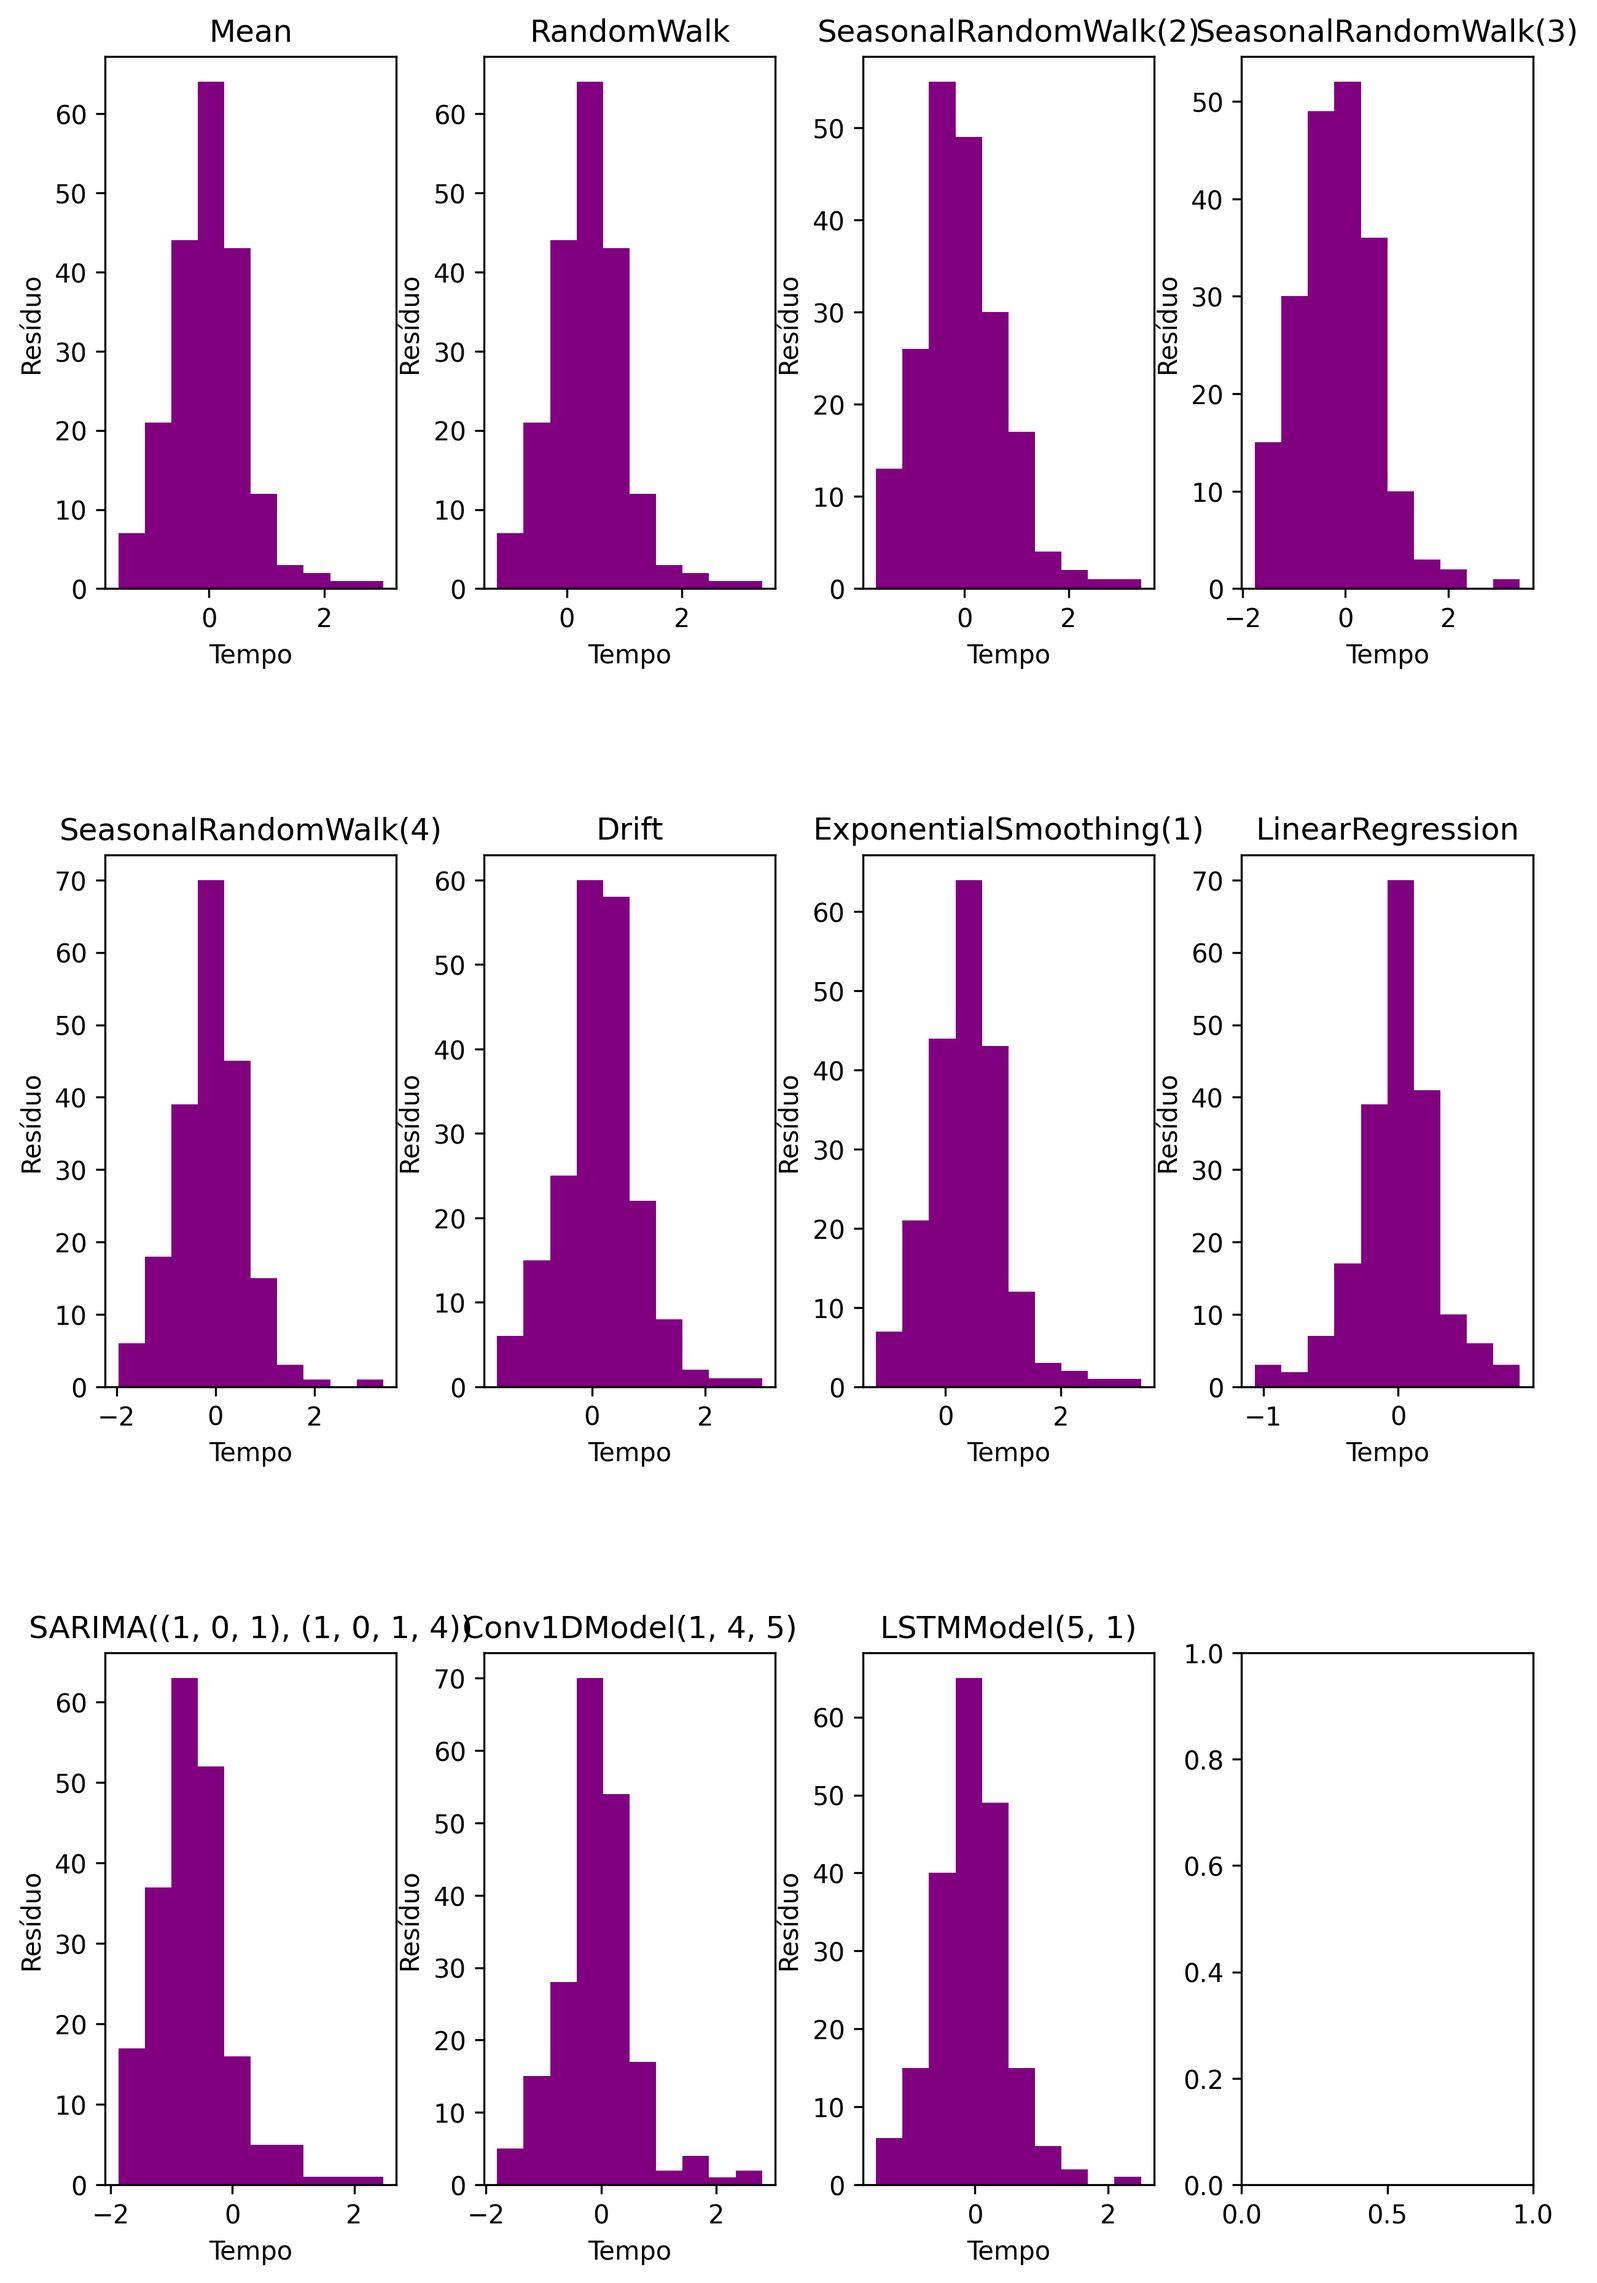
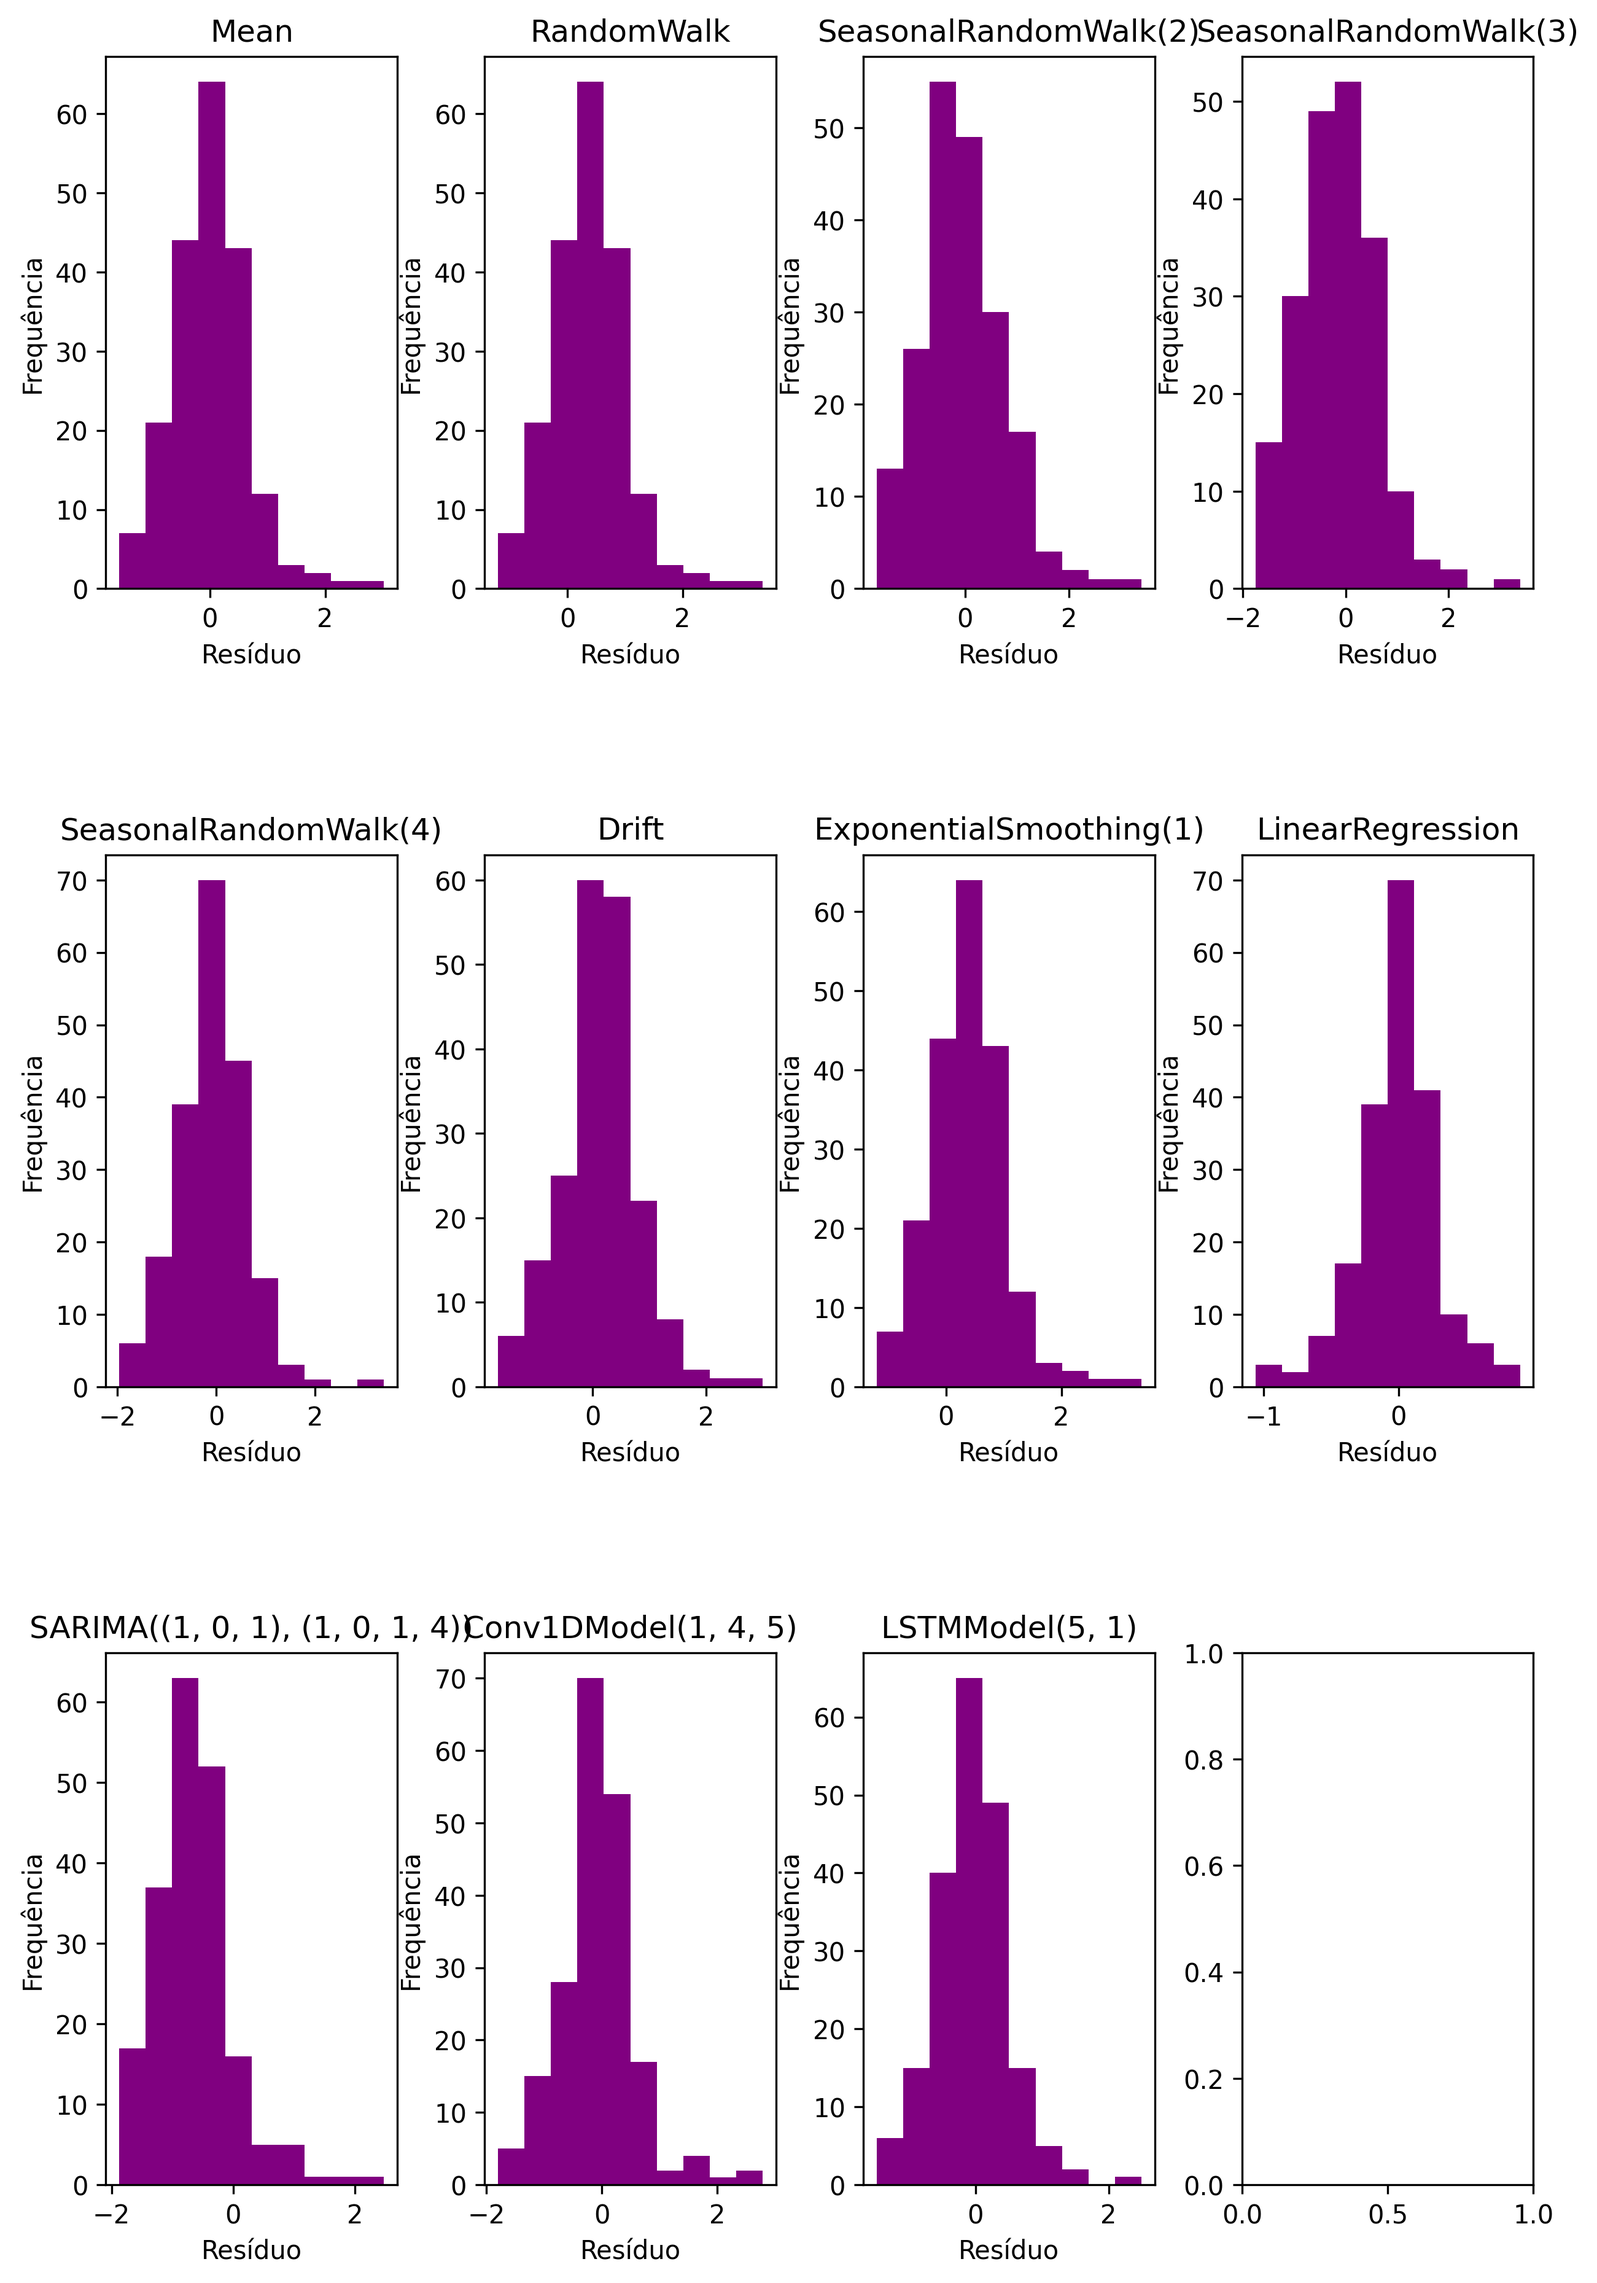
Change label

diff --git a/residuals.py b/residuals.py
@@ -34,8 +34,8 @@ def plot_residual_distribution(data, archive_name):
         
         axes[row, col].hist(data[column], color='purple')
         axes[row, col].set_title(f"{column}")
-        axes[row, col].set_xlabel("Tempo")
-        axes[row, col].set_ylabel("Resíduo")
+        axes[row, col].set_xlabel("Resíduo")
+        axes[row, col].set_ylabel("Frequência")
 
     plt.savefig("results/img/residuos_distribuicao_" + archive_name + ".png", dpi=300, bbox_inches='tight')
 
